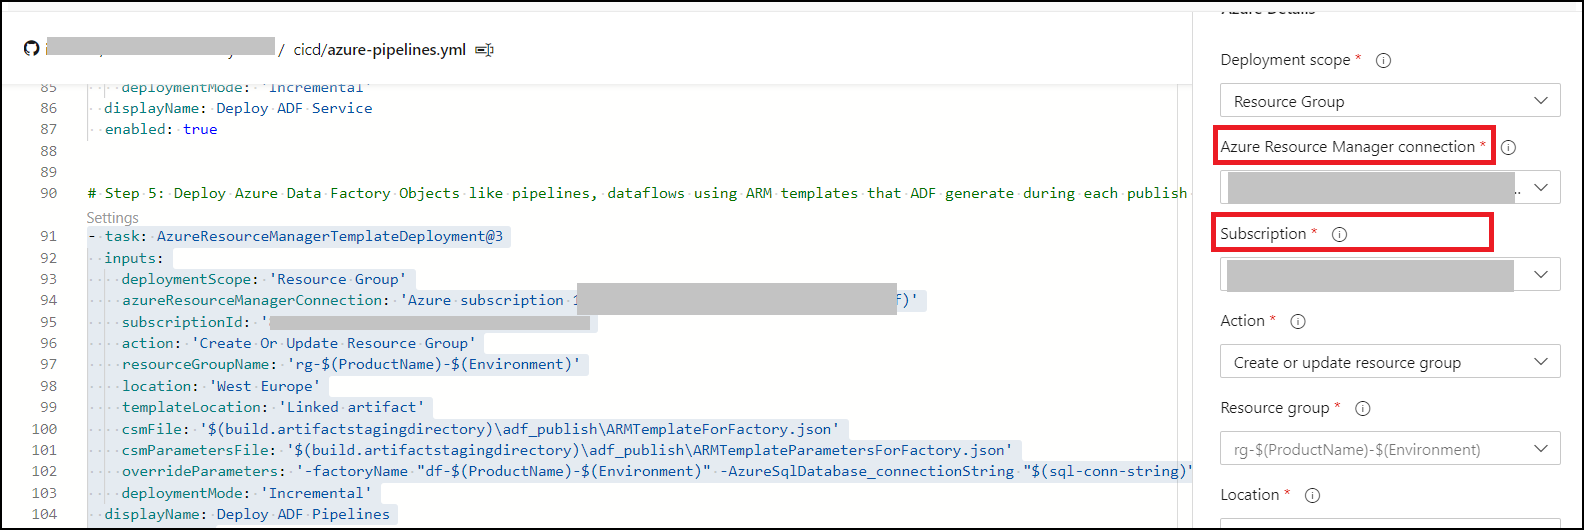
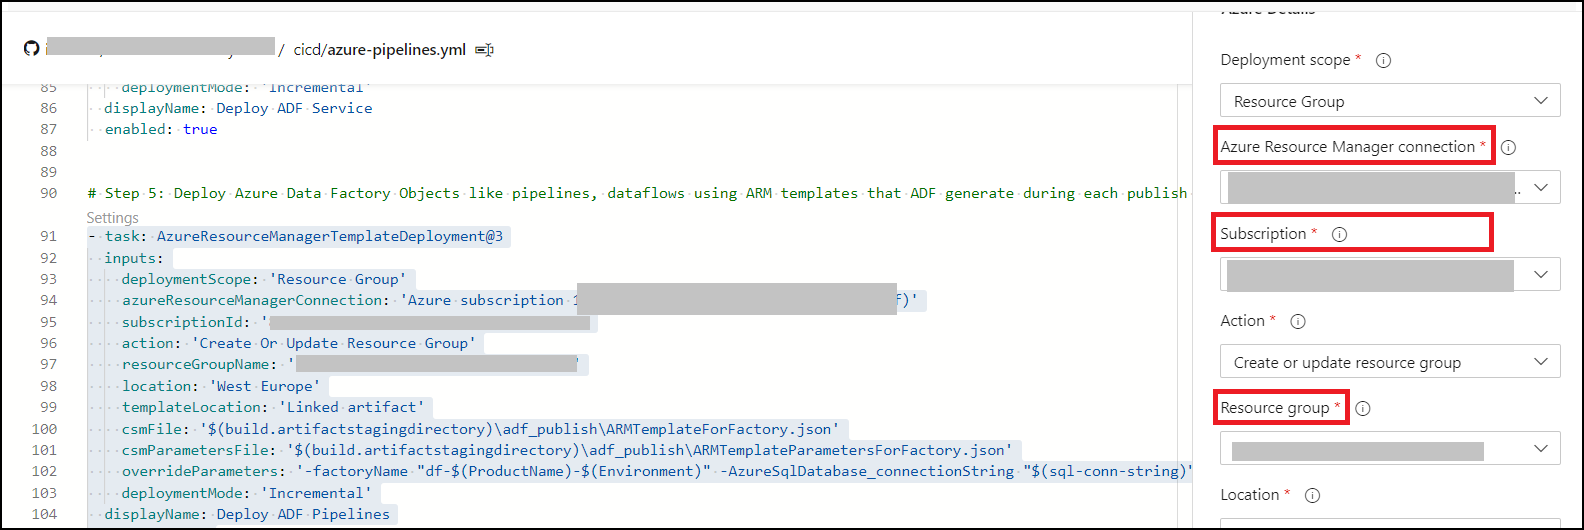
updated docs

Changed region(s): [[0.7424, 0.7245, 0.959, 0.8755], [0.1856, 0.6642, 0.3712, 0.7245]]

diff --git a/datasets/covid-19/definitive-healthcare/azure-pipelines-cicd/readme.md b/datasets/covid-19/definitive-healthcare/azure-pipelines-cicd/readme.md
@@ -241,7 +241,7 @@ After having exctracted the files in the repo. The repository should look like t
 
     This will load the Azure pipeline YAML.
 
-8. Update the  **azureResourceManagerConnection** and **subscriptionId** keys for all the tasks shown in the pipeline YAML. To do this select **Settings** shown in the top left corner of every task, this will open a visual YAML editor. Update the aforementioned keys by selecting the relevant subscription. Make sure you do this for all the tasks.
+8. Update the  **azureResourceManagerConnection**, **subscriptionId** and **resourceGroupName** keys for all the tasks shown in the pipeline YAML. To do this select **Settings** shown in the top left corner of every task, this will open a visual YAML editor. Update the aforementioned keys by selecting the relevant subscription. Make sure you do this for all the tasks.
 
 ![update subscription step 4](../../definitive-healthcare/azure-pipelines-cicd/images/update-subscription.png)
 ![update subscription step 5](../../definitive-healthcare/azure-pipelines-cicd/images/update-subscription-2.png)
@@ -249,6 +249,28 @@ After having exctracted the files in the repo. The repository should look like t
 
 9. Save and run the pipeline.
 
+![Run pipeline](./images/run-pipeline.png)
+
+In case you receive the following error, authorize it and run the pipeline again.
+
+![Run pipeline](./images/authorize-resources.png)
+
+
+
 # Adding another environment (UAT/PROD) to the CI/CD
 
-For configuring the CI/CD to publish changes from 
+For configuring the CI/CD to publish changes to another environment you will need to replicate the steps that are given in the previous section with the following changes.
+
+1. Change the name of the variables group. 
+  
+  *Please note that the variables within the variable group will remain the same. You only have to update the name of the variable group both while creating the variable group and in the pipeline YAML file as well.*
+
+![](./images/prod-vars.png)
+
+2. Update the pipeline YAMl to use the newly created variable group.
+
+![](./images/update-var-name.png)
+
+This is all you need to update while creating a new pipeline that updates another environment.
+
+Note: This pipeline will be using the SQL DB or Synapse SQL Pool that you specify in the variables. Please make sure that it doesn't use the same DB or Synapse as the one created earlier to avoid data conflicts.
